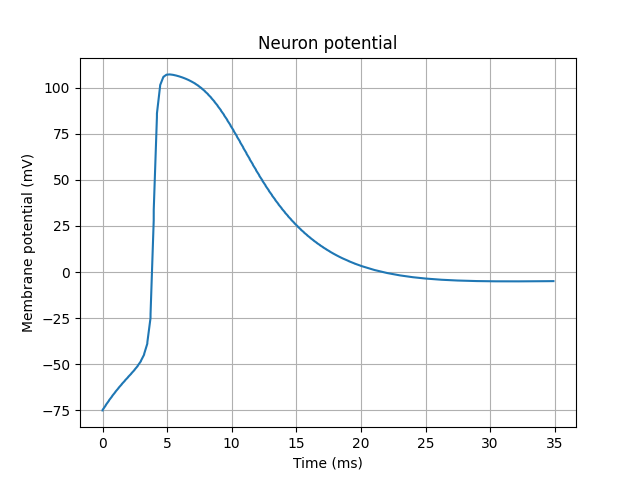
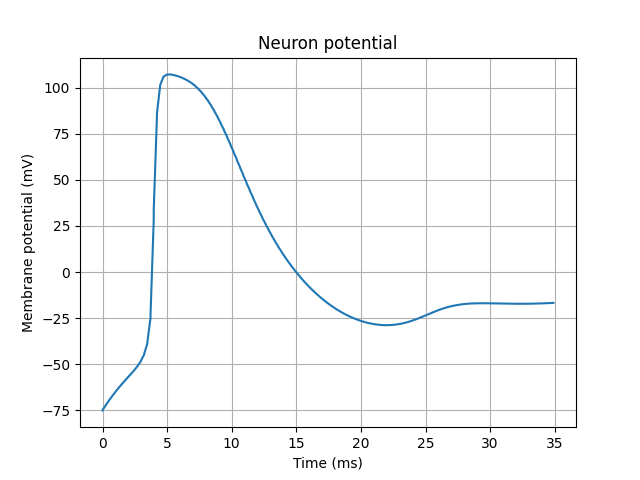
graph changes

diff --git a/Full_Model.py b/Full_Model.py
@@ -79,7 +79,7 @@ class Model:
         mstates = Markov(γ=150., δ=40., ε=1.75, d=0.005, u=0.5, n=0.75, f=0.005, a=3.3267) 
         hh = HodgkinHuxley() 
 
-        somatic_voltage=Somatic_Voltage(g_na=60., g_k=100., g_l=2., c_m=1., v_init=-75., vna=115., vk=-12., vl=-30, i_inj=10.)
+        somatic_voltage=Somatic_Voltage(g_na=60., g_k=100., g_l=2., c_m=1., v_init=-75., vna=115., vk=-88., vl=-30, i_inj=10.)
         # somatic_voltage=Somatic_Voltage(105.,15.,2.,1.,-70.,45.,-88.,-88,10.)              # Parameter values from Parameters2.py
         # somatic_voltage=Somatic_Voltage(47.2,200.,2.,1.,-50,45.,-88.,-88.,10.)             # Parameter values from research paper
 
